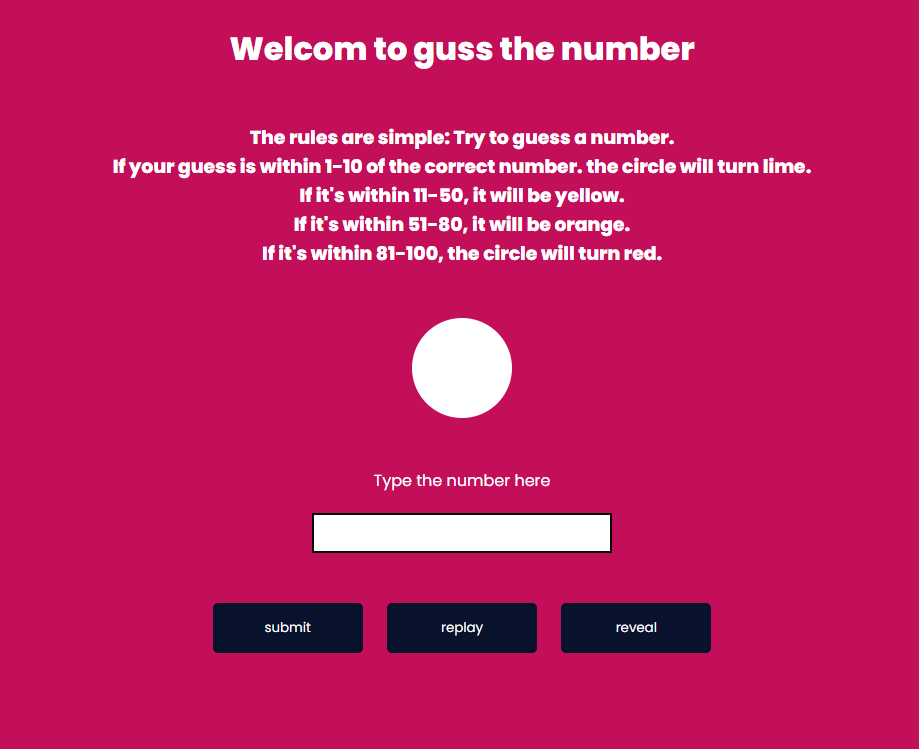
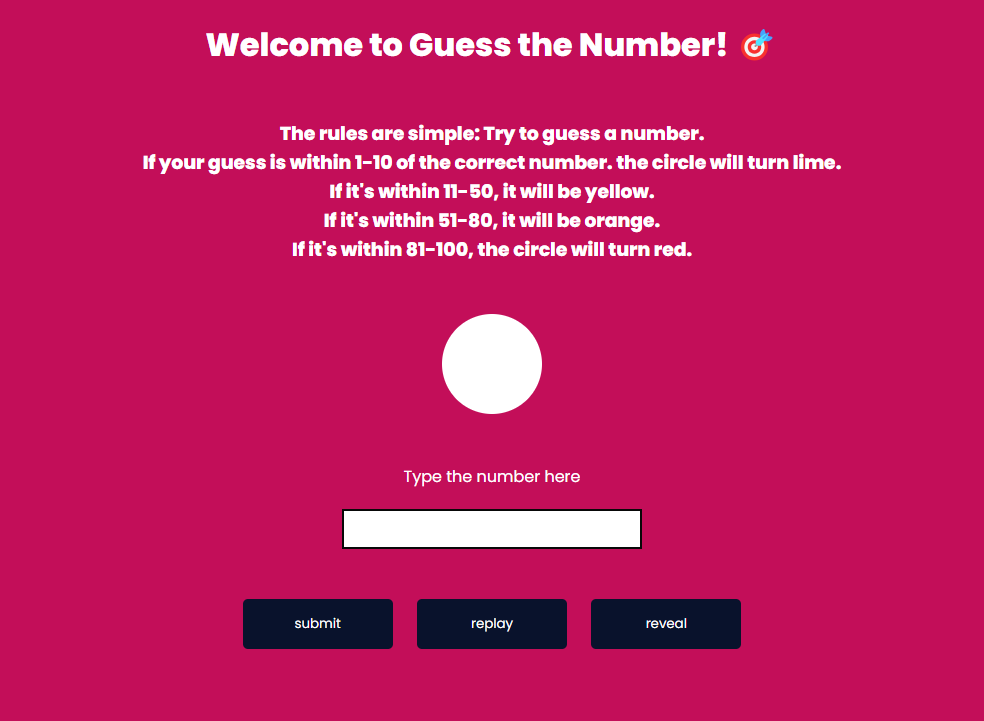
change

diff --git a/project15/pr15.html b/project15/pr15.html
@@ -7,7 +7,7 @@
     <link rel="stylesheet" href="pr15.css">
 </head>
 <body>
-    <h1>Welcom to guss the number</h1>
+    <h1>Welcome to Guess the Number! 🎯</h1>
     <h3>The rules are simple: Try to guess a number.<br>
         If your guess is within 1-10 of the correct number. the circle will turn lime.<br>
         If it's within 11-50, it will be yellow.<br>
